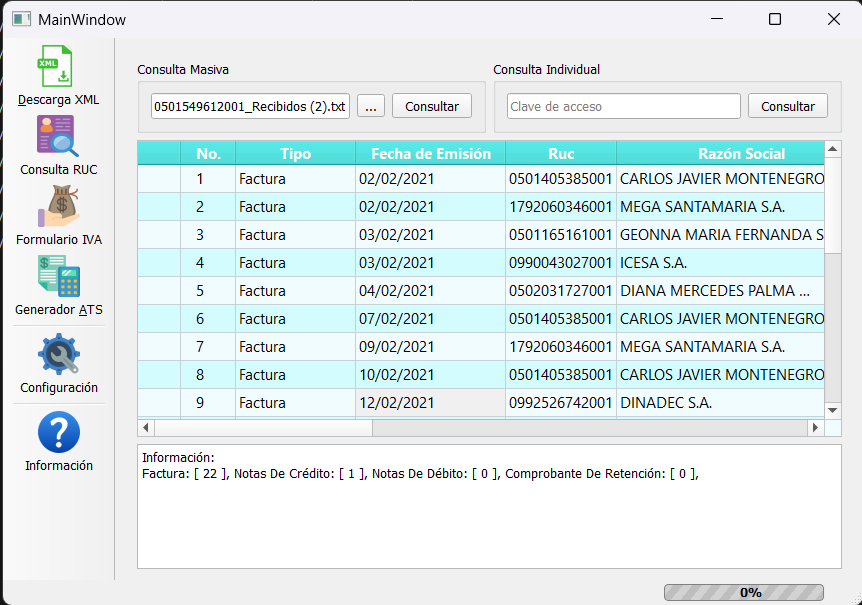
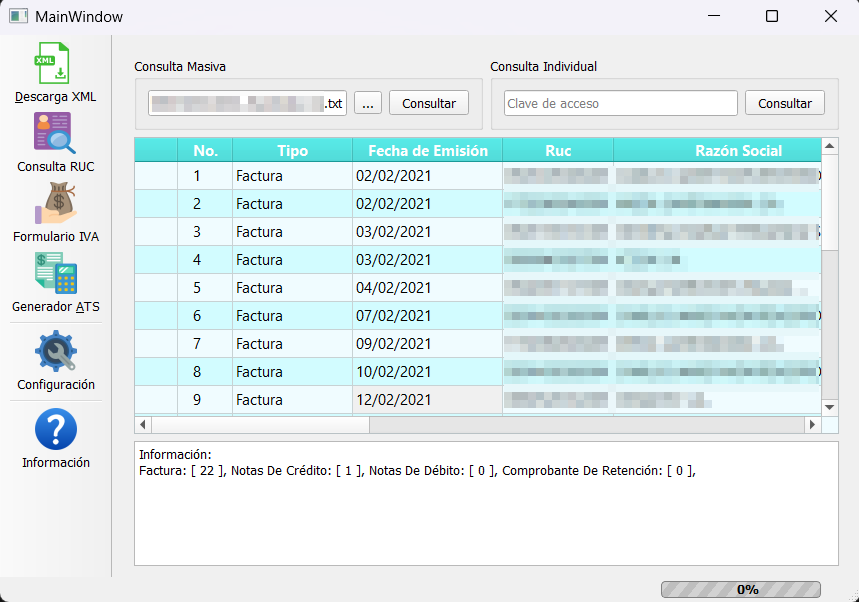
Second Portfolio

diff --git a/1 Web - PersonalPortfolio/static/css/about.css b/1 Web - PersonalPortfolio/static/css/about.css
@@ -215,6 +215,7 @@
     display: grid;
     grid-template-columns: 150px 1fr;
     gap: 2rem;
+    margin-bottom:45px;
 }
 
 .experiencia-fecha {
@@ -257,6 +258,40 @@
     margin: 0 0 1.3rem;
     color: var(--color-texto-secundario);
     line-height: 1.8;
+}
+
+/* ========================================
+   TECNOLOGÍAS
+   ======================================== */
+
+.tecnologias {
+    display: flex;
+    flex-wrap: wrap;
+    gap: 0.55rem;
+}
+
+.tecnologia {
+    display: inline-flex;
+    align-items: center;
+    padding: 0.4rem 0.75rem;
+    border: 1px solid var(--color-borde);
+    border-radius: 50px;
+    color: var(--color-texto-secundario);
+    background: rgba(255, 255, 255, 0.035);
+    font-size: 0.78rem;
+    font-weight: 500;
+    transition:
+        color var(--transicion),
+        border-color var(--transicion),
+        background-color var(--transicion),
+        transform var(--transicion);
+}
+
+.tecnologia:hover {
+    color: var(--color-texto);
+    border-color: var(--color-borde-hover);
+    background: rgba(255, 70, 20, 0.08);
+    transform: translateY(-2px);
 }
 
 /* ========================================

diff --git a/1 Web - PersonalPortfolio/static/css/contact.css b/1 Web - PersonalPortfolio/static/css/contact.css
@@ -334,17 +334,13 @@
 @media (max-width: 900px) {
     #contacto {
         padding-top: 5rem;
+        grid-template-columns: 1fr;
     }
 
     .contacto-encabezado {
         grid-template-columns: 1fr;
         gap: 1rem;
         margin-bottom: 2rem;
-    }
-
-    .contacto-contenido {
-        grid-template-columns: 1fr;
-        gap: 1rem;
     }
 
     .contacto-informacion {
@@ -360,6 +356,7 @@
     #contacto {
         width: 88%;
         padding-top: 4.5rem;
+        grid-template-columns: 1fr;
     }
 
     .contacto-titulo h1 {

diff --git a/1 Web - PersonalPortfolio/data/data.py b/1 Web - PersonalPortfolio/data/data.py
@@ -25,7 +25,7 @@ projects = [
         
         The application also processes the collected information to generate a tax reporting file, providing a structured summary of the invoices and amounts required to complete the corresponding tax declaration through the SRI online portal. This significantly reduces manual data entry and simplifies the process of managing and preparing electronic invoices for tax reporting.
         ''',
-        "img_url": [f"project2-{i}.png" for i in range(1,4)],
+        "img_url": [f"project2-{i}.png" for i in range(1,5)],
         "technologies": ["Python", "Qt", "Web Services/SOAP", "XML", "PDF generatión", "Data processing", "Automation"],
     },
     {
